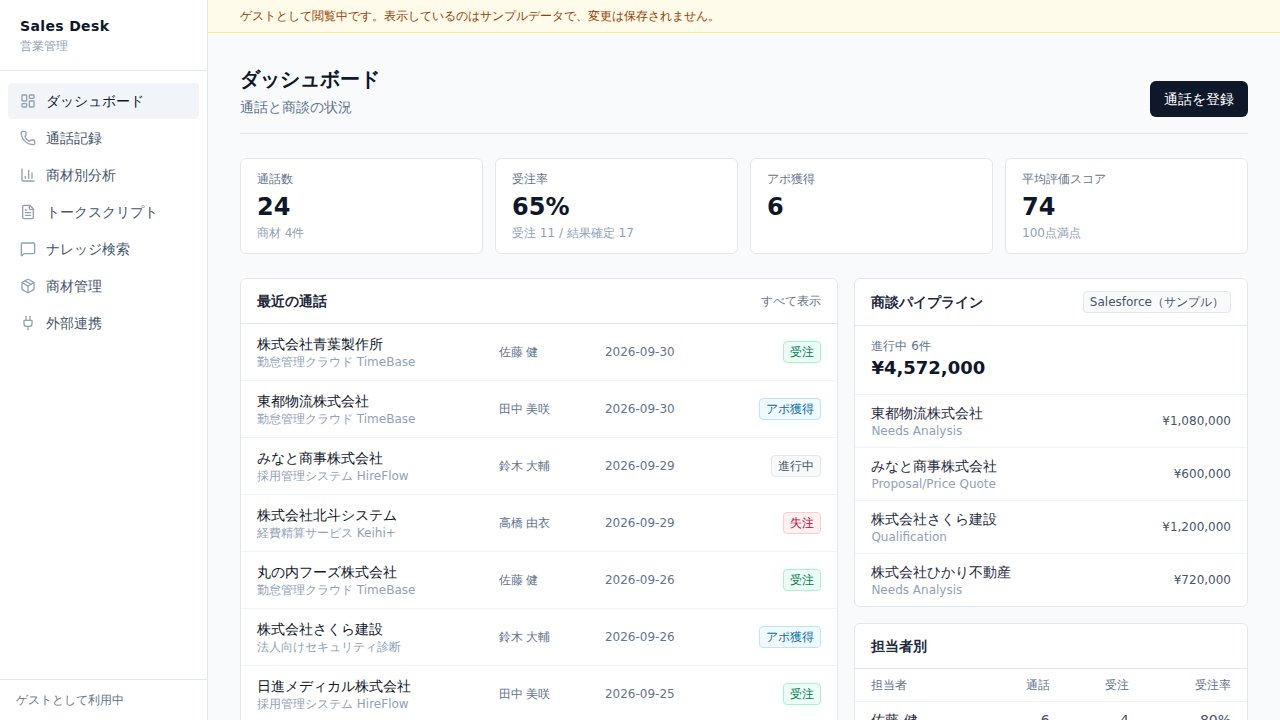
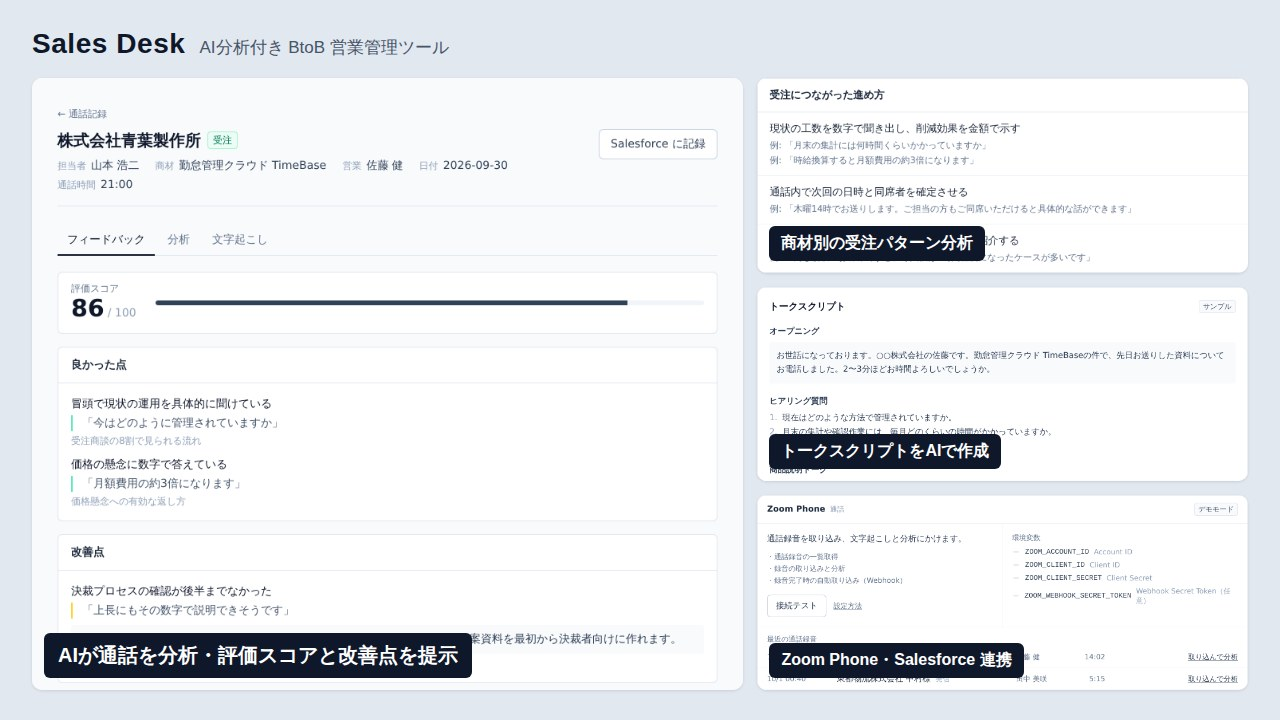
Sales Desk の説明に AI 分析機能を明記し、サムネイルを主要機能がわかる構成に変更
Claude-Session: https://claude.ai/code/session_014KKcikXxVa2sVP9VhTR1D7

diff --git a/works/sales-ai/index.html b/works/sales-ai/index.html
@@ -29,20 +29,20 @@
   <meta property="og:type" content="article">
   <meta property="og:site_name" content="丹羽優貴 ポートフォリオ">
   <meta property="og:url" content="https://niwayukun-1234.github.io/works/sales-ai/">
-  <meta property="og:title" content="Sales Desk（BtoB 営業管理ツール） | 丹羽優貴のポートフォリオ">
-  <meta property="og:description" content="営業電話の録音を文字起こし・分析し、商材ごとに「受注につながる進め方」を蓄積する営業管理ツール。">
+  <meta property="og:title" content="Sales Desk（AI分析付き BtoB 営業管理ツール） | 丹羽優貴のポートフォリオ">
+  <meta property="og:description" content="営業電話の録音をAIが文字起こし・分析し、評価スコアと改善点を返す。商材ごとの「受注につながる進め方」も自動で蓄積する営業管理ツール。">
   <meta property="og:image" content="https://niwayukun-1234.github.io/ogp/ogp-portfolio.png">
   <meta property="og:image:width" content="1200">
   <meta property="og:image:height" content="630">
-  <meta property="og:image:alt" content="Sales Desk（BtoB 営業管理ツール） のキービジュアル">
+  <meta property="og:image:alt" content="Sales Desk（AI分析付き BtoB 営業管理ツール） のキービジュアル">
   <meta property="og:locale" content="ja_JP">
   <meta name="twitter:card" content="summary_large_image">
-  <meta name="twitter:title" content="Sales Desk（BtoB 営業管理ツール） | 丹羽優貴のポートフォリオ">
-  <meta name="twitter:description" content="営業電話の録音を文字起こし・分析し、商材ごとに「受注につながる進め方」を蓄積する営業管理ツール。">
+  <meta name="twitter:title" content="Sales Desk（AI分析付き BtoB 営業管理ツール） | 丹羽優貴のポートフォリオ">
+  <meta name="twitter:description" content="営業電話の録音をAIが文字起こし・分析し、評価スコアと改善点を返す。商材ごとの「受注につながる進め方」も自動で蓄積する営業管理ツール。">
   <meta name="twitter:image" content="https://niwayukun-1234.github.io/ogp/ogp-portfolio.png">
 
-  <title>Sales Desk（BtoB 営業管理ツール） | 丹羽優貴のポートフォリオ</title>
-  <meta name="description" content="営業電話の録音を文字起こし・分析し、商材ごとに「受注につながる進め方」を蓄積する営業管理ツール。 使用技術: TypeScript / Next.js / React / Tailwind CSS / Supabase / Claude API / Zoom Phone API / Salesforce API。">
+  <title>Sales Desk（AI分析付き BtoB 営業管理ツール） | 丹羽優貴のポートフォリオ</title>
+  <meta name="description" content="営業電話の録音をAIが文字起こし・分析し、評価スコアと改善点を返す。商材ごとの「受注につながる進め方」も自動で蓄積する営業管理ツール。 使用技術: TypeScript / Next.js / React / Tailwind CSS / Supabase / AssemblyAI / OpenAI Embeddings / Claude API / Zoom Phone API / Salesforce API。">
 
   <link rel="preconnect" href="https://fonts.googleapis.com">
   <link rel="preconnect" href="https://fonts.gstatic.com" crossorigin>
@@ -53,14 +53,14 @@
   {
     "@context": "https://schema.org",
     "@type": "SoftwareSourceCode",
-    "name": "Sales Desk（BtoB 営業管理ツール）",
-    "description": "営業電話の録音を文字起こし・分析し、商材ごとに「受注につながる進め方」を蓄積する営業管理ツール。",
+    "name": "Sales Desk（AI分析付き BtoB 営業管理ツール）",
+    "description": "営業電話の録音をAIが文字起こし・分析し、評価スコアと改善点を返す。商材ごとの「受注につながる進め方」も自動で蓄積する営業管理ツール。",
     "url": "https://niwayukun-1234.github.io/works/sales-ai/",
     "dateCreated": "2026",
     "inLanguage": "ja",
     "author": { "@type": "Person", "name": "丹羽優貴", "url": "https://niwayukun-1234.github.io/" },
     "creator": { "@type": "Person", "name": "丹羽優貴" },
-    "keywords": "TypeScript / Next.js / React / Tailwind CSS / Supabase / Claude API / Zoom Phone API / Salesforce API"
+    "keywords": "TypeScript / Next.js / React / Tailwind CSS / Supabase / AssemblyAI / OpenAI Embeddings / Claude API / Zoom Phone API / Salesforce API"
   }
   </script>
   <script src="../../js/log-config.js" defer></script>
@@ -101,8 +101,8 @@
       <a class="breadcrumb" href="../../index.html#works">← 作品一覧へ戻る</a>
 
       <p class="label">Work / 2026</p>
-      <h1 class="detail__title">Sales Desk（BtoB 営業管理ツール）</h1>
-      <p class="detail__summary">営業電話の録音を文字起こし・分析し、商材ごとに「受注につながる進め方」を蓄積する営業管理ツール。</p>
+      <h1 class="detail__title">Sales Desk（AI分析付き BtoB 営業管理ツール）</h1>
+      <p class="detail__summary">営業電話の録音をAIが文字起こし・分析し、評価スコアと改善点を返す。商材ごとの「受注につながる進め方」も自動で蓄積する営業管理ツール。</p>
 
       <dl class="detail__meta">
         <div class="detail__meta-item">
@@ -115,14 +115,14 @@
         </div>
         <div class="detail__meta-item">
           <dt class="detail__meta-key">Tech</dt>
-          <dd class="detail__meta-val"><ul class="tags"><li class="tag">TypeScript</li><li class="tag">Next.js</li><li class="tag">React</li><li class="tag">Tailwind CSS</li><li class="tag">Supabase</li><li class="tag">Claude API</li><li class="tag">Zoom Phone API</li><li class="tag">Salesforce API</li></ul></dd>
+          <dd class="detail__meta-val"><ul class="tags"><li class="tag">TypeScript</li><li class="tag">Next.js</li><li class="tag">React</li><li class="tag">Tailwind CSS</li><li class="tag">Supabase</li><li class="tag">AssemblyAI</li><li class="tag">OpenAI Embeddings</li><li class="tag">Claude API</li><li class="tag">Zoom Phone API</li><li class="tag">Salesforce API</li></ul></dd>
         </div>
       </dl>
 
       <div class="detail__links detail__links--top"><a class="btn btn--solid btn--launch btn--lg" href="https://niwayukun-1234.github.io/sales-ai/" target="_blank" rel="noopener">Sales Desk デモを開く<svg viewBox="0 0 24 24" fill="none" stroke="currentColor" stroke-width="1.8" stroke-linecap="round" stroke-linejoin="round" aria-hidden="true"><path d="M18 13v6a2 2 0 0 1-2 2H5a2 2 0 0 1-2-2V8a2 2 0 0 1 2-2h6"/><path d="M15 3h6v6"/><path d="M10 14 21 3"/></svg></a><span class="detail__links-note">実際に触れます（新しいタブで開きます）</span></div>
 
       <figure class="detail__hero reveal">
-        <img src="../../images/work-sales-ai.jpg" alt="Sales Desk（BtoB 営業管理ツール） のスクリーンショット" width="1200" height="675" loading="eager" decoding="async">
+        <img src="../../images/work-sales-ai.jpg" alt="Sales Desk（AI分析付き BtoB 営業管理ツール） のスクリーンショット" width="1200" height="675" loading="eager" decoding="async">
       </figure>
 
       <div class="detail__body">
@@ -132,15 +132,15 @@
         </article>
         <article class="detail-block reveal" data-delay="1">
           <h2 class="detail-block__key">02 / Built</h2>
-          <p class="detail-block__text">通話録音から文字起こし・話者分離を行い、受注／失注の要因、懸念への返し方、営業へのフィードバックを自動で作成。商材別の勝ちパターン集計、トークスクリプト作成、過去通話をもとにしたナレッジ検索に加え、Zoom Phone の録音取り込みと Salesforce への活動記録に対応。</p>
+          <p class="detail-block__text">AIが通話録音を文字起こし（話者分離つき）し、受注・失注の要因、効果のあった発言、懸念への返し方を抽出。通話ごとに評価スコア・良かった点・改善点・次のアクションを提示する。分析結果は商材別に集計され、受注パターンの把握、AIによるトークスクリプト作成、過去の通話をもとに答えるナレッジ検索（RAG）に使われる。Zoom Phone の録音取り込みと Salesforce への活動記録にも対応。</p>
         </article>
         <article class="detail-block reveal" data-delay="2">
           <h2 class="detail-block__key">03 / Stack</h2>
-          <p class="detail-block__text">Next.js（App Router）/ React / TypeScript / Tailwind CSS。データと認証は Supabase（PostgreSQL・pgvector）、文字起こしは AssemblyAI、分析と生成は Claude API。外部連携は Zoom Phone（Server-to-Server OAuth）と Salesforce（OAuth Client Credentials）。</p>
+          <p class="detail-block__text">Next.js（App Router）/ React / TypeScript / Tailwind CSS。データと認証は Supabase（PostgreSQL・pgvector によるベクトル検索）。文字起こしは AssemblyAI、通話分析・フィードバック・スクリプト生成は Claude API、埋め込みは OpenAI Embeddings。外部連携は Zoom Phone（Server-to-Server OAuth）と Salesforce（OAuth Client Credentials）。</p>
         </article>
         <article class="detail-block reveal" data-delay="3">
           <h2 class="detail-block__key">04 / Result</h2>
-          <p class="detail-block__text">このページのデモは、ログイン不要でサンプルデータの全画面を操作できる静的版です。</p>
+          <p class="detail-block__text">このページのデモは、ログイン不要でサンプルデータの全画面（AI分析結果・受注パターン・スクリプト・外部連携）を操作できる静的版です。</p>
         </article>
       </div>
 

diff --git a/works/univtap/index.html b/works/univtap/index.html
@@ -149,7 +149,7 @@
       <nav class="detail__nav" aria-label="作品間の移動">
         <a href="../sales-ai/">
           <svg viewBox="0 0 24 24" fill="none" stroke="currentColor" stroke-width="1.6" stroke-linecap="round" stroke-linejoin="round" aria-hidden="true"><path d="M19 12H5M11 18l-6-6 6-6"/></svg>
-          Sales Desk（BtoB 営業管理ツール）
+          Sales Desk（AI分析付き BtoB 営業管理ツール）
         </a>
         <a href="../pachitango/">
           パチ単語（パチンコ演出の英単語アプリ）

diff --git a/works/hatake-map/index.html b/works/hatake-map/index.html
@@ -152,7 +152,7 @@
           BeEngineer（中高生向けプログラミング教室）LP
         </a>
         <a href="../sales-ai/">
-          Sales Desk（BtoB 営業管理ツール）
+          Sales Desk（AI分析付き BtoB 営業管理ツール）
           <svg viewBox="0 0 24 24" fill="none" stroke="currentColor" stroke-width="1.6" stroke-linecap="round" stroke-linejoin="round" aria-hidden="true"><path d="M5 12h14M13 6l6 6-6 6"/></svg>
         </a>
       </nav>
